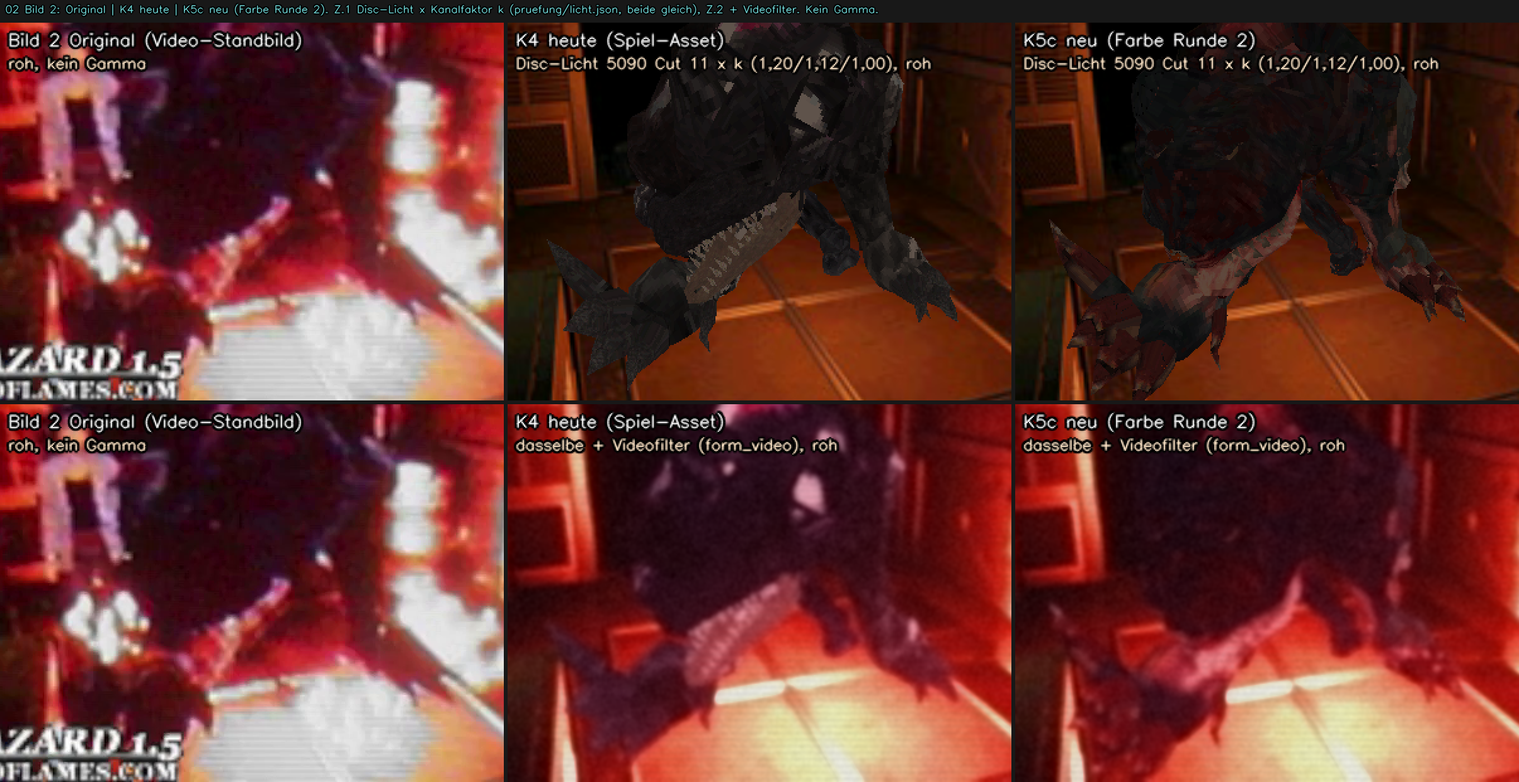
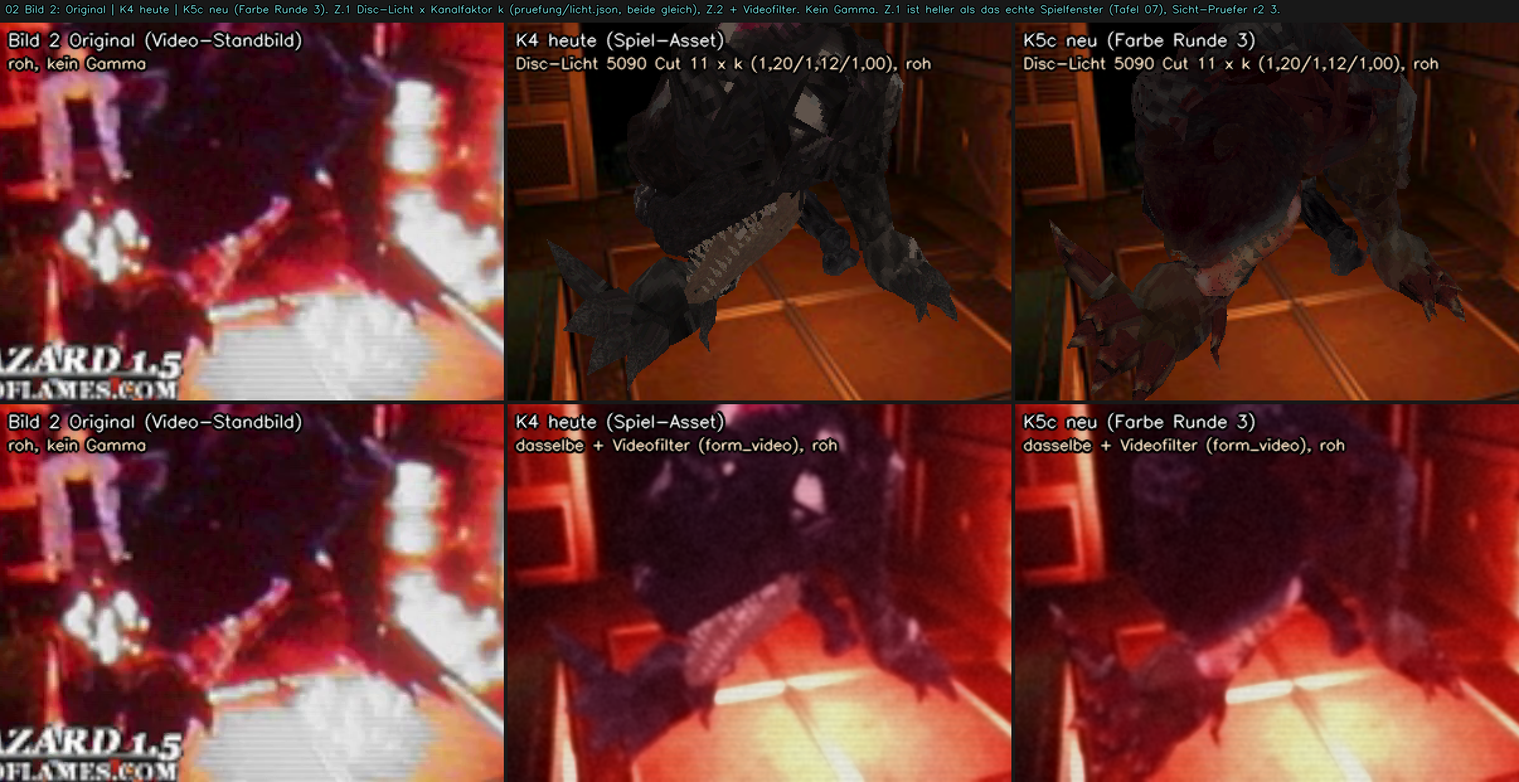
docs(form-farbe): Tafeln 01-07, Spiellauf mit K4-Vergleich und Dossier FARBE.md zur K5c-Farbe Runde 3
- Tafeln 01-06 (kf_tafeln.py, KF_NAME 'K5c neu (Farbe Runde 3)'), roh, kein
  Gamma auf keiner Kachel; 01/02 mit Hinweis "Zeile 1 heller als Spiel 07".
- 07: echtes Spiel (kf_spiel.sh --mit-heute -> form_spiel.sh, gdigrab, kein
  AUTOSHOT/SOFTWARE_RENDER), 5 Szenen 5080/5090, K4 heute und K5c neu,
  10/10 rc=0 (farbe/spiel_lauf.log), Einzelbilder farbe/spiel/.
- FARBE.md: Ursache in Zahlen, Vorgehen (3D-Malen, Hautseiten, Form,
  Fleischflaechen, Kiefer, Eichung), Herkunft je Atlasfeld, Riegel Soll/Ist
  28/33 (ROT K1, K2, K4, B2, B9 mit Begruendung), Tests 11/11, Offen O1-O9.
  Nach Messblatt 7.5 keine Abnahmevorlage fuer den Nutzer, solange ROT.

diff --git a/analysis/befunde_runde41/form/varianten/K5/FARBE.md b/analysis/befunde_runde41/form/varianten/K5/FARBE.md
@@ -1,192 +1,201 @@
-# K5c Farbe, Runde 2 von 3 (Bauer, 2026-11-06)
+# K5c Farbe, Runde 3 von 3 (Bauer, 2026-11-06)
 
 Auftrag: Orchestrator, Spur Form. Die Riesenform K5c ("eher c") neu texturieren nach `MESSBLATT_FARBE_V1.md` und jeden Befund der Pruefung
-Runde 1 (`FARBE_PRUEFUNG_r1_sicht.md`, `FARBE_PRUEFUNG_r1_zahlen.md`) beheben. Runde 1 steht in `FARBE_r1.md`, ihre Variante in `farbe/K5c_farbe_r1/`.
-Geometrie, Clips, UV, Dreiecke unveraendert: `farbe/K5c_farbe/FORM.EMD` = `farbe/K5C_FARBE.EMD` = `K5c/FORM.EMD` (cmp, sha256 a71f8d08...), 3828 Flaechen.
-Neu ist nur `FORM.TIM` (Texelindizes und 4 CLUT-Zeilen, gleiches Atlas-Layout). Kein RE-Wert: neues Modell (PORT-WAHL, NUTZER_ENTSCHEIDE E5/E19/E20).
-Seiten: (W) = aus Sicht des Wesens. Lab = CIE-Lab D65 (OpenCV float).
+Runde 2 beheben (`FARBE_PRUEFUNG_r2_sicht.md`, `FARBE_PRUEFUNG_r2_zahlen.md`). Runde 2 steht in `FARBE_r2.md`, ihre Variante in `farbe/K5c_farbe_r2/`,
+Runde 1 in `FARBE_r1.md` / `farbe/K5c_farbe_r1/`.
+Geometrie, Clips, UV, Dreiecke unveraendert: `farbe/K5c_farbe/FORM.EMD` = `farbe/K5C_FARBE.EMD` = `K5c/FORM.EMD` = Scratchpad `formfarbe/emd/K5C_FARBE.EMD`
+(sha256 a71f8d08...). Neu ist nur `FORM.TIM` (sha256 7c719e12..., Texelindizes und 4 CLUT-Zeilen, gleiches Atlas-Layout). Spiel-Asset
+`re15_port/shared_assets/RE2/BAHNSTEIG_FORM.*` und Pins unveraendert (`git diff 19a9b2b17..HEAD -- re15_port` leer).
+Kein RE-Wert: neues Modell (PORT-WAHL, NUTZER_ENTSCHEIDE E5/E19/E20). Seiten: (W) = aus Sicht des Wesens. Lab = CIE-Lab D65 (OpenCV float).
 
 ## 0. Ergebnis
 
-**Riegel 24/29 GRUEN, Exit 1.** ROT: K1, K2, N1, B1, B2 (Abschnitt 4). Die Gegenproben sind sauber: K5c heute 3/29 (nur die Halteriegel A10-A12),
-Runde 1 bei allen fuenf Befund-Riegeln B1-B5 ROT. Die Riegel messen also etwas.
+**Riegel 28/33 GRUEN, Exit 1.** ROT: K1, K2 (Bild-1-Farbkraft), K4 (Bild-1-Rotklasse, knapp), B2 (groesste Rotflaeche 3/4 vorn, knapp), B9 (Rot im
+Umrissband, neuer Riegel). Gegenproben sauber: K5c heute 6/33 (gruen nur Halteriegel A10-A12 und B6/B7/B9), Runde 1 alle B1-B5 ROT, Runde 2 alle
+B6-B9 ROT. **Nach Messblatt 7.5 gehen die Tafeln nicht als Abnahmevorlage an den Nutzer, solange Riegel ROT sind** (Entscheid Orchestrator, Abschnitt 7).
 
-| | K5c heute | Runde 1 | **Runde 2** |
+| | K5c heute | Runde 2 | **Runde 3** |
 |---|---|---|---|
-| Riegel (Messblatt 24 + Befund 5) | 3/29 | 24/24 + B 0/5 | **24/29** |
-| Neutralweiss A5 / Glanzrest B4 (p90 L\* ehem. Keime, <= 58) | 0,79 % / 100 | 0,00 % / 80,1 (gestaucht) | **0,00 % / 47,8 (entfernt)** |
-| Blau-Klasse im neutralen Render B3 (<= 0,10 %) | 2,4-5,0 % | 11,4-16,0 % | **0,00 %** |
-| Rot erosionsfest B1 (>= 32,1 %) / groesste Rotflaeche B2 (>= 3,2 %) | 21,5 / 1,19-0,61 | 20,0 / 3,26-1,70 | **28,0 / 3,65-2,45** |
-| Kopf-Gaumenklasse B5 (<= 2 %) | 15,1 % | 9,0 % | **1,0 %** |
-| Rot-Farbton A4 (15-50 Grad) | -10 | 19 (Median 16) | **26** |
-| Koerper C\* / Fleischrot (A1 / A3) | 4,9 / 0,5 % | 12,9 / 15,1 % | 11,8 / 22,4 % |
-| Bild-1-Kette C\* / ab-Streuung (K1 >= 7,9 / K2 >= 8,36) | 6,3 / 6,3 | 8,6 / 9,9 | **6,5 / 8,0 ROT** |
-| Neutraler Render C\* (N1 >= 7,5 / 9,4 / 7,9) | 4,6 / 5,0 / 4,0 | 10,7 / 9,8 / 10,7 | **10,2 / 8,8 / 6,9 ROT** |
+| Riegel | 6/33 | 24/29 (+ B6-B9: 0/4) | **28/33** |
+| Malweise | Rueckprojektion + Grau | 46 Felder aus G4-Hautausschnitten | **Farbe aus der Lage am Koerper (3D), keine Kacheln** |
+| Wiederholung B6 (<= 0,28 %) | 0,24 | 2,82 | **0,04** |
+| Rot erosionsfest B1 (>= 32,1 %) | 21,5 | 28,0 | **35,9** |
+| Groesste Rotflaeche B2 3/4 vorn / Seite (>= 3,2 %) | 1,19 / 0,61 | 3,65 / 2,45 | **2,97 / 5,96** |
+| Rot im Umrissband B9 (<= 11,3 %) | 10,2 | 23,3 | **17,8** |
+| Rot-Farbton-Streuung B7 (>= 5,8 Grad) | 19,9 | 4,5 | **11,3** |
+| Zahnflecken Bild 2 B8 (13,6-33,9 %) | 41,1 | 0,2 | **14,1** |
+| Neutraler Render C* N1 (>= 7,4 / 9,4 / 7,8) | 4,6 / 5,0 / 4,0 | 10,2 / 8,8 / 6,9 | **10,3 / 9,7 / 10,1** |
+| Bild-1-Kette C* / ab-Streuung (K1 >= 7,9 / K2 >= 8,4) | 6,3 / 6,3 | 6,5 / 8,0 | **6,1 / 6,2 ROT** |
+| Kiefer Zahn/Rot/Dunkel A8 | 77/0/0 | 6/96/39 | **6,9 / 25,3 / 39,6** |
 
-Ergebnis-Dateien: `farbe/K5C_FARBE.EMD` + `farbe/K5C_FARBE.TIM`, Variantenordner `farbe/K5c_farbe/` (FORM.EMD, FORM.TIM, form.json, bau.json mit
-Herkunft je Atlasfeld, masken.npz). Kopie im Scratchpad `formfarbe/emd/K5C_FARBE.EMD/.TIM`. Spiel-Asset `re15_port/shared_assets/RE2/BAHNSTEIG_FORM.*`
-und Pins unveraendert.
+## 1. Ursache der Ablehnung in Zahlen
 
-## 1. Ursache der Ablehnung in Zahlen (Messblatt, Gegenprobe K5c heute)
+Nutzer 2026-11-06 zu `rundum_bild1_K5c.png`: "passt von den Farben und von der Struktur ueberhaupt nicht ... nicht zum Rest des Spiels ... wie ein Pokemon".
+- K5c heute (Messblatt 0/5): Koerper C* 4,9 (Familie 9,3-19,8); Fleischrot 0,5 % Magenta -10 Grad (Familie 11,5-38 % bei 25-48 Grad); sigma_ab je Teil
+  4,0 (7,4-10,7); Kiefer 77 % Creme, 0 % Rot, 0 % dunkel, HF 0,461; Augen (207,95,161) C* 54; 0,79 % silberweisse Koerpertexel (Familie <= 0,19 %);
+  Tafeln mit Gamma 0,5/0,6 nur auf K5c.
+- Runde 1/2 behoben das, erzeugten aber (Pruefung r2): Rot als Netz und Saum (B1 28,0 %, Seite 2,45 %, Rot im Umrissband 23,3 % gegen EM30 11,3 %),
+  gekachelte G4-Foto-Fragmente (Wiederholung 2,82 % gegen EM30 0,28 %), Rot ein Ton (4,5 Grad gegen G5 5,8 / EM30 13,2), Zaehne in Bild 2 unsichtbar
+  (Hell-Klasse 0,2 % gegen 22,6 %), Konstanten ohne Quelle, Eichung nicht konvergiert.
 
-"Pokemon" = grau + Magenta-Augen + Creme-Maul + Weissflecken + Tafel-Aufhellung: Koerper C\* 4,9 gegen Familie 9,3-19,8; Fleischrot 0,5 % bei -10 Grad
-(Familie 11,5-38 % bei 25-48 Grad); sigma_ab je Teil 4,0 gegen 7,4-10,7; Kiefer 77 % Creme, HF 0,461; Augen (207,95,161) C\* 54; 0,79 % silberweisse
-Koerpertexel; Gamma 0,5/0,6 nur auf K5c. `riegel_farbe.py --gegenprobe K5c` ergibt dieselben Zahlen (Abschnitt 4, rechte Spalte).
+## 2. Vorgehen (`generator/kf_mal3.py`; Runde 1/2 `kf_mal.py`/`kf_mal2.py` bleiben fuer den Nachbau)
 
-Runde 1 hatte das behoben, aber zwei neue "Pokemon"-Merkmale erzeugt (Sicht-Pruefer r1): **P1** alles Rot als helles Adernetz auf dunklem Grund
-(Erosionsrest 14-24 %, groesste Rotflaeche 286-483 px, Adern heller als die Haut), **P2** stahlblaugraue Beine (Blau-Klasse 10,6-14,7 %). Dazu
-(Zahlen-Pruefer r1) Glanzflecken nur gestaucht (ehemalige Weisstexel Lab (72,9/7,9/1,5)), beiger Gaumenstreifen x 500-511, Konstanten ohne Quelle.
+**Grundsatz:** nicht mehr je Atlasfeld malen, sondern auf der Koerperoberflaeche. Jeder genutzte Texel bekommt Lage und Normale in der Ruhepose
+(Clip 2, `kf_geo.py`), alle Texel bilden einen Graph (8 naechste 3D-Nachbarn + 4er-Nachbarn im Atlas). Glaetten, Ergaenzen und Formen laufen auf
+diesem Graph, also ueber Feld- und Gliedgrenzen hinweg (E8 "aus einem Guss", E9, E12 "keine UV-Naehte"). Nichts wird gekachelt (B6 0,04 %).
 
-## 2. Vorgehen (`generator/kf_mal2.py`, Runde 1 `kf_mal.py` bleibt fuer den Nachbau unveraendert)
+1. **Koernung** = K5c-eigene Struktur (Textur H2, E16 "sehr viel besser"; HF 0,105 liegt in der Familie, Messblatt 1): L* minus Grobbild
+   (sigma 2,5 Texel). Glanzkeime (L* > 85, C* < 10) und Gaumenstreifen (Zahnklasse im Kopffeld) samt Hof (L* > 58) vorher harmonisch entfernt
+   (3236 Texel). Keine G4-Hautausschnitte mehr.
+2. **Farbkarte aus den Screenshots** (E11): Original Bild 1/2 als T (`p_zonen.rueck`, Bild 2 ohne Einstreuung a* 12,8 / b* 3,4) auf die sichtbaren
+   Texel (Bild 1 9357, Bild 2 13048 Texel); verdeckte aus dem Spiegelpunkt z -> -z (+14748 Texel), Rest harmonisch, Glaettung 2,5 Texel.
+   Haut-L* hoechstens 58 (hellstes Original-Band), Blau-Klasse (b* < -6 und C* > 8) auf C* 8 begrenzt (Farbton bleibt).
+3. **Hautfarbe in wenigen Toenen** (E8 "wenige Farben je Teil", E10 "Violett, Rotbraun, Blaugrau"): k-Mittel k = 2 der Nicht-Rot-Hautpixel beider
+   Bilder -> warme Seite (5,8/8,2) und kuehle Seite (2,0/-6,6); je Seite Rampe Helligkeit -> Farbe (Mittel je L*-Stufe, Werte in `bau.json` 'hautseiten').
+   Je Texel Mehrheit warm/kuehl (Schwelle 0,5, Kante 2,5 Texel): 45 % der Haut warm. Statt einer Mittelfarbe, deren Buntheit sich aufhebt.
+4. **Form = gemalte Anatomie** (Sicht r2 P2 "kein Feld zeigt Anatomie"; E8 "Lichtauffassung"): Hohlraum-Mass je Texel (mittlerer Sinus der
+   Nachbarhoehe ueber der Tangentialebene, k-NN 64 vorzeichenbehaftet + 256 nur Falten). Falten/Beugen dunkel, Woelbungen hell; Staerke so, dass die
+   Koerper-L*-Streuung die von RE2-G4 erreicht (14,9, Messblatt 1): K_FORM 10,27. Dunkle Falten (L* < 20) der warmen Seite in der G4-Dunkelrotstufe
+   (18,9/25,6/12,2) = "dunkelrote Tiefen" (E10), 9,6 % der Haut.
+5. **Fleisch als grosse Flaechen** (Sicht r2 P1/4.1): Screenshot-Mehrheit der Rotklasse (E14, 3744 Texel: Z1 Ruecken, Klauen, Schwanzspitze) und die
+   **nie gesehene Rumpf-Unterseite** (Meshes 0/7/10/21, Normale nach unten, 10129 Texel) - nicht mehr an den Gliedunterseiten (Saeume). Zusammen
+   20,7 % der Koerpertexel. Fleischfarbe = Rampe ueber die Familien-Rotstufen nach Helligkeit (G4 18,9/25,6/12,2 -> G4 32,8/43,7/25,8 ->
+   EM30 36,5/37,4/20,5 -> Familienwunde 51,5/26,5/18,0 -> G4 64,3/24,7/16,3), wo sichtbar plus die Screenshot-Abweichung (Z1 rosa).
+   Helligkeit: Screenshot-Fleischmittel 33,3 bzw. am Bauch die satten Familienstufen (34,65) + Form + Koernung auf +-1 sigma begrenzt (keine Loecher).
+   Ergebnis: Rot-Farbton-Streuung 11,3 Grad (keine harte Drehung mehr), Fleisch im Render als zusammenhaengende Bauch-/Flankenflaeche.
+6. **Kiefer**: sichtbares Band (1161 Texel) = Screenshot Bild 2 samt Zahnflecken (B8 14,1 %); Maulinneres RE2-G4-Maul (10,44,60,40), dessen
+   Zahnfleisch nach eigenem Rot (a*/21,5 = G4-Maul-p90) auf die Fleischrampe gezogen; Zaehne und dunkles Inneres bleiben. A8 6,9/25,3/39,6 %
+   (Familie: Zahn 2-19, Rot 21-36, Dunkel 24-64). Krallen RE2-G4 (231,200,20,50), Zahnfeld Bild-2-Zahnflecken, Augen E24 dunkel (wie Runde 2).
+7. **Eichung gegen die Kette** (Zonenversatz L*/a*/b* je Bildzone, nur auf Haut; Hautbuntheit g): voller Schritt (kein Daempfungsfaktor),
+   g <= G_AB 1,48 (kf_mal.py:50), Saettigungsregel (bewegt eine Aenderung > 1 die Kette um < 10 %, bleibt der Anteil gesperrt), Abbruch bei
+   Schritt < 1 dE. Verlauf `generator/kf_eich3.json` (15 Runden ueber 4 Codestaende e2-e5; die letzten zwei mit dem Endcode: Schritt 1,10 ->
+   **0,71**, Fixpunkt). Endversaetze (L*, a*, b*): Schwanz (-16,5/5,0/-12,7), Ruecken (-4,0/8,0/-19,2), Hinterbein l (W) (-8,9/18,6/-31,6),
+   Hinterbein r (W) (-17,0/14,9/-51,4, b* gesperrt: Blau-Grenze), Vorderglied r (W) (-6,9/-5,6/-5,9), Oberkiefer (-0,2/7,0/-7,5),
+   Kopf/Rumpf (1,7/2,6/-9,2), Unterkiefer (43,3/26,0/19,2), Klauen 0. Zonen-dE der Riegel-Zonen: K3 max 4,9, K6-K8 <= 1,6.
+   Nachbau `python kf_mal3.py bauen <aus>` aus kf_eich3.json ist **byte-gleich** (cmp FORM.TIM).
 
-Je Texel (Lab), Reihenfolge wie im Code:
+### Konstanten (Quelle je Zeile im Code, Liste `bau.json` 'konstanten')
 
-1. **Glanz und Gaumen entfernen** (Zahlen-Pruefer 6.1/6.6, Sicht-Pruefer P4): Keim = Neutralweiss nach A5 (L\* > 85, C\* < 10), Hof = angrenzende
-   Texel mit L\* > 58 (hellstes Original-Band, Messblatt 2 "T L\* 51-58"); Gaumen = Zahnklasse im Kopffeld (L\* > 60, C\* < 35, Messblatt 3) mit
-   demselben Hof. 881 + 2324 Texel werden im Ausgangsbild K5c **harmonisch aus der Umgebung gefuellt** (Laplace je Atlasfeld, kein Radius).
-   Keine Stauchung oberhalb L\* 70 mehr.
-2. **Grundton** = K5c-Grobbild (Gauss 2,5 Texel, normiert im Feld; Quelle kf_mal.py:40-42) mit a\*b\* x 1,48 (Messblatt 2).
-3. **Haut-Form** aus RE2-G4: Hautquellen mit Aderanteil <= 10 % (`G4_HAUT2`, Abschnitt 3), Helligkeits- und Farbform = Quelle minus Grobbild, aber
-   aus dem G4-Bild **ohne seine Adern** (Adern harmonisch gefuellt), sonst trug die Malform den roten Aderhof als Sprenkel (Lauf r2-v0). Die G4-Adern
-   selbst: L\* = 0,85 x Haut (EM30-Adern 23 gegen Haut 27, Sicht-Pruefer P1), C\* <= 1,50 x L\* (G4-Dunkelrot (18,9/25,6/12,2), Messblatt 1),
-   am Ende nach allen Versaetzen erneut begrenzt. 4449 Texel = 5,9 % der Haut.
-4. **Fleischflaechen** (P1): Anteil roter Original-Bildpunkte je Texel (Pruefer-Rotklasse, Bild 2 nach Abzug der Einstreuung a\* 12,8 = Kette 15,5
-   minus Albedo 2,7, Messblatt 2), im Feld harmonisch fortgesetzt (E11), Gauss 2,5 (E12/E13), **Mehrheitsschwelle 0,5** (E14). Material: G4-Fleisch
-   (181,224,20,30) und (179,229,24,24), in L\* und C\* auf das Mittel der Familienwunden skaliert (Sicht-Pruefer P5: EM30 (50/26/13), G4 (53/27/23)
-   -> (51,5/26,5/18,0)), Farbton der Quelle. **Verdeckte Unterseite**: die 23,9 % der Hauttexel mit der staerksten Normalen nach unten (Ruhepose
-   Clip 2, `kf_geo.py`; 23,9 % = G4-Fleischrot, Messblatt 1), nur nie gesehene Texel (E14), Kopffeld ausgenommen, Uebergang ueber 1,2 x 23,9 %
-   (Umring 19-20 %, P5), in der dunklen G4-Rotstufe (18,9/25,6/12,2). Fleisch gesamt 17 210 Texel (23,0 % der Haut).
-5. **Kiefer, Krallen** wie Runde 1 (G4-Maul (10,44,60,40) 90 Grad gedreht, G4-Krallen (231,200,20,50)); Kopienzahl = Umfang / Quellbreite
-   (5 bzw. 8), Zeilenversatz gleichverteilt (j x Hoehe / Kopien).
-6. **Zonenversatz** (Eichung gegen die Kette, Messblatt 2): sichtbare Texel nach Bildpunkten je Zone, verdeckte harmonisch im Feld.
-   **Zone = Bauteil**: die Bildzone Unterkiefer wirkt nur auf das Kieferfeld, alle anderen nie darauf. Runde 1 traf ueber die Unterkiefer-Zone
-   (L\* +38,7) hand_r (217 px), Kopf (502 px) und Unterschenkel (107 px): Ursache der hellen Pfote (Sicht-Pruefer P3) und eines Teils der Glanzreste.
-7. **Farbwechsel aus dem Original** (E10/E11, K2): je sichtbarem Hauttexel a\*b\* minus Zonenmittel der Original-Bildpunkte, ohne die roten Bildpunkte
-   (die tragen die Fleischflaeche), harmonisch fortgesetzt, Gauss 0,7 (E13).
-8. Zaehne (Bild-2-Zahnflecken (79,6/1,4/9,5), Verlauf auf 45/80 = 0,56 zum Grund), Augen (E24 (13,4/15,8/6,9)), Augenumfeld r 6 px (218 Texel),
-   E9-Schwanzausgleich (Gerade durch die Glied-Mittel 1-5).
-9. **Farbfenster**: Farbton -55..25 Grad bei C\* > 14,5 auf **25 Grad** gedreht (EM30-Rot, Messblatt 1; Runde 1: 10); ausserhalb -55..80 Grad
-   C\* <= 5,5 (Runde 1, Quellen dort); **b\* >= -6** (Blau-Klasse P2; Runde 1 liess -125..-55 Grad bis C\* 14,5 offen). Gemessen am Original Bild 1:
-   29,9 % der Figurpixel liegen in der Blau-Klasse; mit b\* auf -6 gekappt bleibt C\* 7,99, mit Chroma-Skalierung 7,40 (deshalb Kappung).
-10. **CLUT**: k-Mittel je Zeile (255 Farben, Saat 7), 5-Bit-Stufen **gerundet** statt abgeschnitten (Zahlen-Pruefer r1 A8 +2,5), danach Blau-Regel an der
-    Spielfarbe (Dekodierung x 255 // 31): 20 Stufen gesenkt, sonst kippen dunkle Farben durch eine Blaustufe in die Blau-Klasse.
+Belegt: SIG_GROB 2,5 (kf_mal.py:40-42), GLANZ/HOF/GAUMEN (A5, Messblatt 2/3), EINSTREU_A2 12,8 / B2 3,4 (Messblatt 2, p_zonen.json), Blau-Klasse
+-6 / C* 8 (Sicht r1 P2, B3), Fenster -125..80 Grad (H_BLAU Runde 1, Bild-1-Hinterbein -85 Grad), L_MAX_HAUT 58 (Messblatt 2), L_MAX_FLEISCH 70,6
+(EM30-Haut p95), RAMPE_FLEISCH (Messblatt-1-Paletten), G4_DUNKELROT, FLEISCH_BAUCH_L 34,65 (G4/EM30), L_STREU_ZIEL 14,9 (G4), Zahnfleisch-Gewicht
+21,5 (G4-Maul a* p90, gemessen), G_AB 1,48, ZAHN/AUGE wie Runde 2.
+PORT-WAHL mit Nutzerentscheid: Mehrheitsschwelle 0,5 (E14) fuer Fleisch und Hautseite; k = 2 Hautseiten (E8 "wenige Farben je Teil", E10).
+Verfahrensparameter (Weg, nicht Ziel; im Code benannt): K_GRAPH 8, K_NAH/K_FERN 64/256, SPIEGEL_ABSTAND 2 Texelabstaende, Falten-Uebergang
+1 Standardabweichung, L*-Stufen der Rampen, Saat 7, Abbruch 1 dE, Saettigung 10 %.
+Entfallen gegenueber Runde 2: alle Kachelversaetze (`+2`, `+1` bei Haut), `kf_mal.ausschnitt` fuer die Haut, SIG_AB_FEIN, DAEMPF 0,8,
+FLEISCH_ANTEIL/UMRING. Weiter benutzt (nur Kiefer/Krallen): `kf_mal.ausschnitt` (Lueckenfuellung sigma 2 / 4 Durchlaeufe) und die Kopienzahl
+`+1` - Befund Zahlen-Pruefer r2 5.1/5.3 dort **nicht behoben** (Offen O6).
 
-**Eichung** (`kf_mal2.py eichen`, Verlauf `generator/kf_eich2.json`, 67 Runden ueber alle Laeufe): nur noch Zonenversatz L\*/a\*/b\* (10 Zonen) und
-Augenhelligkeit (Ziel Original L\* max 22,1). Klauen: L\* und b\* nicht geeicht (Feuerschein, Messblatt K9), a\* nur nach oben (K9 ist Untergrenze).
-b\*-Versatz begrenzt, bis der Texel mit dem groessten b\* der Zone an b\* -6 liegt (darueber wirkungslos; Lauf r2-e18 ohne Grenze: d_b -147).
-Keine Aderstaerke g, keine Fleischschwelle, keine Farbkraft in der Eichung. Endwerte (L\*, a\*, b\*): Schwanz (-2,6/-2,2/-11,5), Ruecken/Flanke
-(-6,6/-4,1/-16,8), Hinterbein l (W) (0,4/2,3/-17,1), Hinterbein r (W) (-3,0/-1,0/-24,3), Vorderglied r (W) (-2,2/-6,2/-11,2), Oberkiefer (-5,0/10,8/-15,2),
-Kopf/Rumpf (-1,8/1,1/-2,1), Unterkiefer (82,4/31,2/19,0), Klauen 0. Restfehler der letzten Runde dE max 8,0 (Klaue r (W), b\* Feuerschein, kein Riegel).
-Verfahrensparameter: Schrittweite 0,8, Saat 7. `kf_mal2.py bauen` aus `kf_eich2.json` ist byte-gleich wiederholbar (cmp).
-
-**Konstanten ohne Quelle aus Runde 1 (Zahlen-Pruefer 4), Verbleib:** `np.clip(g, 0, 2.5)` und g selbst entfallen; `clip(fleisch_k, 0.2, 1.5)`,
-`max(4.0, auge)` und `deck > 0.2`, `deck/0.5`, `cov/0.5`, `gd/0.05` entfallen (harmonische Fortsetzung, Mehrheitsschwelle); Stauchung L\* > 70 (0,25)
-entfaellt (Glanz entfernt); Kachelversaetze `7*i`, `11*j`, `9*j`, `auf_hoehe(5)` ersetzt durch gleichverteilte Versaetze aus der Quellhoehe; Ueberblendung
-= 2 x SIG_GROB (5); D_MAX ersetzt durch die Fenstergrenze B_MIN; Augen-Reserve 26 ersetzt durch das Original 22,1; K_FEIN, G_L, SIG_ERG, SIG_NAEHE,
-K_VERDECKT und naehe^3 entfallen. Verbleibende PORT-WAHL mit Nutzerentscheid: SIG_AB_FEIN 0,7 (E13), Mehrheitsschwelle 0,5 (E14).
-
-### Laufprotokoll (Scratchpad `formfarbe/r2/v0 ... e21`)
+### Laufprotokoll (Scratchpad `formfarbe/r3/`)
 
 | Lauf | Aenderung | Befund |
 |---|---|---|
-| v0 | erster Bau: Glanz entfernt, Adern dunkel, Fleisch nur Screenshot | Blau 0,8-1,6 %, Rot nur Sprenkel (Erosion 6-20 %), Gaumen-Rest x 384-392 |
-| v1-v2 | Gaumen-Hof, G4-Malform ohne Adern, Hautquellen <= 10 % Adern, Unterseite 23,9 % | Blau 0 %, ruhiger; Rot zerfaellt im Render weiter |
-| e1-e2 | Eichung; Farbton der Haut >= -14 Grad (Projektion / C\* <= 6) | K1 6,2, K2 6,8, N1 6,9-9,1 ROT -> verworfen |
-| e3 | Zone = Bauteil (Unterkiefer), b\* >= -6 | Pfote nicht mehr hell; 23/29 |
-| e4-e7 | Farbwechsel aus dem Original; Farbkraft-Eichung auf K1 bzw. K4 | K1 8,7 nur mit K4 9,9-10,2 % (Fleisch verdraengt); Ziel K4 entsaettigt auf 0,74 -> verworfen |
-| e8-e12 | Klauen L\*/b\* fest, Kieferkante weich, G4-Rose, weiche Unterseite | 25/29; Unterseite als rote Saeume an Umrisskanten |
-| e13 | ohne Unterseite | A1 8,8, A3 8,4 knapp, B1 28 -> verworfen (A1 ROT) |
-| e14-e17 | Unterseite dunkelrot (G4-Stufe), Kopf ausgenommen, Versaetze aus Massen | 25/29 (K1, N1, B1, B2) |
-| e18 | Rose raus, Fleisch auf Familienwunde skaliert (Z1 in Tafel 01 knallrot statt rosa) | 24/29 (K2 8,1) |
-| e19-e21 | b\*-Eichung begrenzt (Zonenmittel, dann Zonenmaximum) | **24/29, Endstand** |
+| v0 | 3D-Malen, Screenshot-Karte direkt | 18/29; Fleisch zu dunkel (B1 19,8), Schwanz-L* steigt zur Spitze (A11 4,4) |
+| e1 | globaler Buntheitsfaktor ohne Grenze | g 3,9 -> Magenta/Orange/Tuerkis (verworfen) |
+| v1-v2 | zwei Hautseiten, Rampen; Blau auf C* 8 statt b* -6 | Bild 1 allein: warme Seite grau -> beide Bilder |
+| e2 | Eichung, g <= 1,48 | K1 6,6-6,9 (Grenze), Bauch-Sattel zu gross (80 % des verdeckten Rumpfs) |
+| v3-v5 | Bauch ny > 0, dunkelrote Falten, Versatz nur auf Haut | A4 12 Grad -> Falten nur warme Seite; Kiefer-Rot 12 % -> Zahnfleisch |
+| v6-v9 | Bauch-L* (51,5 zu blass, 34,65 satt), Fleisch-Koernung +-1 sigma | B1 22 -> 25, B6 1,62 -> 0,13 |
+| v10 | Bauch = nie gesehene statt nicht gespiegelte Texel | B1 35,5, B2 Seite 6,3 |
+| e4-e5 | Endeichung, Saettigung gesperrt | Fixpunkt, 28/33 |
+| v11 | Screenshot-Farbwechsel zusaetzlich | K1/K2 unveraendert, B8 ROT -> verworfen |
 
-## 3. Herkunft der Atlasfelder (`farbe/K5c_farbe/bau.json` "herkunft")
+## 3. Herkunft der Atlasfelder (`farbe/K5c_farbe/bau.json` 'herkunft')
 
 | Feld (Atlas) | Herkunft |
 |---|---|
-| Koerper Seiten 0-2 (46 Felder aus `J_dicker/bau.json`) und Kopf (384,0,128,104) | K5c-Grobbild ohne Glanz/Gaumen (Gauss 2,5) mit a\*b\* x 1,48 + RE2-G4-Hautform aus (130,96,20,62), (190,96,20,60), (314,12,32,30), (269,4,24,32), (29,152,24,32) (G4-Atlas wie `p_lade.re2(0x34)`; Aderanteil 6 / 9 / 7 / 0 / 9,5 %), Startquelle = Feldnummer; G4-Adern dunkel; Fleisch wo Bild 1/2 mehrheitlich Rot zeigen aus G4 (181,224,20,30) / (179,229,24,24) skaliert auf (51,5/26,5/18,0); verdeckte Unterseite G4-Fleisch in der Stufe (18,9/25,6/12,2); Zonenversatz; Farbwechsel aus dem Original |
-| Kiefer (384,106,128,72) | RE2-G4-Maul (10,44,60,40), 90 Grad gedreht, 5 Kopien um den Umfang, Zeilenversatz j x 40 / 5, Ueberblendung 5 Texel; L\*-Versatz nur am sichtbaren Band, Kante Gauss 2,5 |
-| Zaehne (384,180,24,14) | gemalt: Bild-2-Zahnflecken Lab (79,6/1,4/9,5), L\* zum Grund x 0,56 |
-| Krallen (410,180,100,40) | RE2-G4-Krallen (231,200,20,50), 8 Kopien, Zeilenversatz j x 50 / 8 |
+| Koerper, Seiten 0-2 (x < 384, 46 Felder aus `J_dicker/bau.json`) und Kopf (384,0,128,104) | K5c-Koernung (H2) + Screenshot-Farbkarte Bild 1/2 (sichtbar / Spiegelpunkt / harmonisch) -> Hautseite warm/kuehl mit Rampe aus den Original-Hautpixeln; Form aus dem Hohlraum-Mass; dunkle Falten G4-Dunkelrot; Fleisch (Screenshot-Mehrheit + Rumpf-Unterseite der Meshes 0/7/10/21) in der Familien-Rotrampe; Zonenversatz aus der Eichung |
+| Kiefer (384,106,128,72), Mesh 23 | Band: Screenshot Bild 2 (Zahnflecken mit) + Zonenversatz Unterkiefer; Maulinneres RE2-G4-Maul (10,44,60,40), 90 Grad gedreht, 5 Kopien, Zahnfleisch auf Fleischrampe |
+| Zaehne (384,180,24,14) | gemalt: Bild-2-Zahnflecken (79,6/1,4/9,5), L* zum Grund x 0,56 |
+| Krallen (410,180,100,40) | RE2-G4-Krallen (231,200,20,50), 8 Kopien |
 | Augen (384,196,24,10) + 218 Texel Augenumfeld | gemalt: E24 (13,4/15,8/6,9) |
 
-Die G4-Rechtecke sind voll gedeckt (Suche nach gedeckten Rechtecken mit kleinstem bzw. groesstem Rotanteil im G4-Atlas, Schulterauge x 270-321,
-y 160-245 ausgenommen); Maul und Krallen zu 84 / 82 % gedeckt, Luecken aus dem Umfeld (kf_mal.ausschnitt).
+Mesh-Zuordnung (Ruhepose, x vorn, y unten): 0 Huefte, 1-6 Schwanz, 7 Wirbel, 10 Brust, 21 Hals, 22 Kopf, 23 Unterkiefer, 8/9/24-27 Hinterbeine,
+11-20/28-31 Arme/Haende/Klauen.
 
-## 4. Riegel Soll / Ist (`python generator/riegel_farbe.py farbe/K5c_farbe --gegenprobe K5c --gegenprobe-r1 farbe/K5c_farbe_r1`, `farbe/riegel_K5c_farbe.json/.txt`)
+## 4. Riegel Soll / Ist
 
-| # | Soll | Runde 2 | K5c heute | Runde 1 |
+`python generator/riegel_farbe.py farbe/K5c_farbe --gegenprobe K5c --gegenprobe-r1 farbe/K5c_farbe_r1 --gegenprobe-r2 farbe/K5c_farbe_r2 --json farbe/riegel_K5c_farbe.json`
+(Ausgabe `farbe/riegel_K5c_farbe.txt`, EXIT 1). Neu in Runde 3: B6-B9 zu den Befunden r2; Grenzen = Familienwerte mit demselben Code
+(`riegel_farbe.py --familie`: EM30 / G5 / G4 = B6 0,28 / 0,19 / 0,08 %, B7 13,2 / 5,8 / 9,4 Grad, B9 11,3 / 7,3 / 7,7 %).
+
+| # | Soll | Runde 3 | K5c heute | Runde 2 |
 |---|---|---|---|---|
-| A1 Koerper C\* | 9,5-21 | 11,8 GRUEN | 4,9 | 12,9 |
-| A2 sigma_ab je Teil | >= 7,0 | 13,1 GRUEN | 4,0 | 11,9 |
-| A3 Fleischrot | 8-40 % | 22,4 GRUEN | 0,5 | 15,1 |
-| A4 Rot-Farbton | 15-50 Grad | 26 GRUEN | -10 | 19 |
+| A1 Koerper C* | 9,5-21 | 13,9 GRUEN | 4,9 | 11,8 |
+| A2 sigma_ab je Teil | >= 7,0 | 7,6 GRUEN | 4,0 | 13,1 |
+| A3 Fleischrot | 8-40 % | 20,3 GRUEN | 0,5 | 22,4 |
+| A4 Rot-Farbton | 15-50 Grad | 22 GRUEN | -10 | 26 |
 | A5 Neutralweiss | <= 0,20 % | 0,00 GRUEN | 0,79 | 0,00 |
-| A6 HF_fft Koerper/Kopf/Kiefer/Kralle | 0,04-0,26 | 0,091/0,153/0,047/0,064 GRUEN | Kiefer 0,461 | 0,164/0,109/0,068/0,063 |
-| A7 HF_rest | <= 0,19 | max 0,065 GRUEN | 0,436 | 0,092 |
-| A8 Kiefer Zahn/Rot/Dunkel | 2-20 / >= 20 / >= 20 % | 6,1 / 95,7 / 39,2 GRUEN | 77,1/0/0 | 2,7/33,8/44,5 |
-| A9 Auge L\*/C\* | <= 30 / <= 30 | 13,1 / 18,0 GRUEN | 56,1/53,7 | 13,1/18,0 |
+| A6 HF_fft Koerper/Kopf/Kiefer/Kralle | 0,04-0,26 | 0,090/0,167/0,073/0,065 GRUEN | Kiefer 0,461 | 0,091/0,153/0,047/0,064 |
+| A7 HF_rest | <= 0,19 | max 0,082 GRUEN | 0,436 | 0,065 |
+| A8 Kiefer Zahn/Rot/Dunkel | 2-20 / >= 20 / >= 20 % | 6,9/25,3/39,6 GRUEN | 77,1/0/0 | 6,1/95,7/39,2 |
+| A9 Auge L*/C* | <= 30 | 13,1/18,0 GRUEN | 56,1/53,7 | 13,1/18,0 |
 | A10 Texeldichte | 0,5-2,7 | 0,64-2,33 GRUEN | gleich | gleich |
-| A11 Schwanzsprung | <= 4,0 | 1,4 GRUEN | 3,4 | 0,5 |
-| A12 Farbkorn | <= 5,7 | 4,54 GRUEN | 2,63 | 4,40 |
-| K1 Bild 1 C\* | 7,9-11,1 | **6,5 ROT** | 6,3 | 8,6 |
-| K2 Bild 1 ab-Streuung | >= 8,36 | **8,0 ROT** | 6,3 | 9,9 |
-| K3 Bild 1 dE je Zone | <= 6 | max 5,4 (Hinterbein r (W)) GRUEN | 8,3 | 1,3 |
-| K4 Bild 1 Rotklasse | 3,1-7,8 % | 6,2 GRUEN | 2,5 | 6,9 |
-| K5 Bild 1 Hell Ruecken / geclippt | <= 14,9 / <= 0,8 % | 4,7 / 0,4 GRUEN | 21,9/1,0 | 6,8/0,1 |
-| K6 Bild 2 Figur dE / C\* | <= 6 / >= 21,8 | 1,5 / 23,8 GRUEN | 9,9/16,7 | 2,7/22,7 |
-| K7 Bild 2 Unterkiefer dE / a\* | <= 6 / >= 21,2 | 0,0 / 24,9 GRUEN | 12,4/13,7 | 0,2/24,8 |
-| K8 Bild 2 Oberkiefer dE | <= 6 | 1,4 GRUEN | 12,0 | 0,6 |
-| K9 Bild 2 Klauen a\* r/l | >= 18,1 / 16,7 | 26,1 / 28,3 GRUEN | 13,8/22,8 | 24,1/22,5 |
-| K10 Bild 2 Augen L\* max | <= 30 | 14,3 / 15,9 GRUEN | 51,5/36,2 | 13,5/15,9 |
-| N1 neutral C\* (EM30 10,0/12,5/10,5) | >= 0,75 x EM30 | 10,2 / **8,8 / 6,9 ROT** | 4,6/5,0/4,0 | 10,7/9,8/10,7 |
-| N2 neutral L\* > 85 | <= 0,10 % | 0 / 0 / 0 GRUEN | 0,83/1,30/0,11 | 0/0/0 |
-| B1 Rot erosionsfest (3 Winkel zus.) | >= 32,1 % (EM30; G4 41,4, G5 52,4) | **28,0 ROT** | 21,5 | 20,0 |
-| B2 groesste Rotflaeche / Figur (3/4 vorn, Seite) | >= 3,2 % (G4 Seite; EM30 3,59) | 3,65 / **2,45 ROT** | 1,19/0,61 | 3,26/1,70 |
-| B3 Blau-Klasse je Winkel | <= 0,10 % (G4/G5 0,0) | 0,00 GRUEN | 3,9/5,0/2,4 | 11,4/15,5/16,0 |
-| B4 Glanzrest p90 L\* ehem. Keime | <= 58 (hellstes Band) | 47,8 GRUEN | 100 | 80,1 |
-| B5 Kopffeld Gaumen-/Zahnklasse | <= 2,0 % | 1,02 GRUEN | 15,1 | 9,0 |
+| A11 Schwanzsprung | <= 4,0 | 0,1 GRUEN | 3,4 | 1,4 |
+| A12 Farbkorn | <= 5,7 | 2,48 GRUEN | 2,63 | 4,54 |
+| **K1 Bild 1 C*** | 7,9-11,1 | **6,1 ROT** | 6,3 | 6,5 |
+| **K2 Bild 1 ab-Streuung** | >= 8,36 | **6,2 ROT** | 6,3 | 8,0 |
+| K3 Bild 1 dE je Zone | <= 6 | max 4,9 (Hinterbein r (W)) GRUEN | 8,3 | 5,4 |
+| **K4 Bild 1 Rotklasse** | 3,1-7,8 % | **2,8 ROT** | 2,5 | 6,2 |
+| K5 Bild 1 Hell Ruecken / geclippt | <= 14,9 / <= 0,8 % | 11,7 / 0,3 GRUEN | 21,9/1,0 | 4,7/0,4 |
+| K6 Bild 2 Figur dE / C* | <= 6 / >= 21,8 | 1,0 / 24,7 GRUEN | 9,9/16,7 | 1,5/23,8 |
+| K7 Bild 2 Unterkiefer dE / a* | <= 6 / >= 21,2 | 1,6 / 23,3 GRUEN | 12,4/13,7 | 0,0/24,9 |
+| K8 Bild 2 Oberkiefer dE | <= 6 | 0,3 GRUEN | 12,0 | 1,4 |
+| K9 Bild 2 Klauen a* r/l | >= 18,1 / 16,7 | 25,7 / 28,8 GRUEN | 13,8/22,8 | 26,1/28,3 |
+| K10 Bild 2 Augen L* max | <= 30 | 14,0 / 15,4 GRUEN | 51,5/36,2 | 14,3/15,9 |
+| N1 neutral C* | >= 7,5 / 9,4 / 7,9 | 10,3 / 9,7 / 10,1 GRUEN | 4,6/5,0/4,0 | 10,2/8,8/6,9 |
+| N2 neutral L* > 85 | <= 0,10 % | 0/0/0 GRUEN | 0,83/1,30/0,11 | 0/0/0 |
+| B1 Rot erosionsfest | >= 32,1 % | 35,9 GRUEN | 21,5 | 28,0 |
+| **B2 groesste Rotflaeche 3/4 vorn / Seite** | >= 3,2 % | **2,97** / 5,96 **ROT** | 1,19/0,61 | 3,65/2,45 |
+| B3 Blau-Klasse | <= 0,10 % | 0,03/0,02/0,00 GRUEN | 3,9/5,0/2,4 | 0 |
+| B4 Glanzrest p90 | <= 58 | 44,3 GRUEN | 100 | 47,8 |
+| B5 Kopffeld Zahnklasse | <= 2,0 % | 0,0 GRUEN | 15,1 | 1,0 |
+| B6 Kachelwiederholung (neu) | <= 0,28 % | 0,04 GRUEN | 0,24 | 2,82 |
+| B7 Rot-Farbton-Streuung (neu) | >= 5,8 Grad | 11,3 GRUEN | 19,9 | 4,5 |
+| B8 Bild-2-Zahnflecken Hell-Klasse (neu) | 13,6-33,9 % (0,6-1,5 x 22,6) | 14,1 GRUEN | 41,1 | 0,2 |
+| **B9 Rot im Umrissband (neu)** | <= 11,3 % | **17,8 ROT** | 10,2 | 23,3 |
 
-B1-B5 sind neu (Befunde r1). Grenzen aus der Familie mit demselben Code (`riegel_farbe.py --familie`); B1/B2 relativ zur Figur statt der 34 % / 1000 px
-des Sicht-Pruefers, weil K5c in derselben Umkugel nur etwa halb so viele Pixel deckt wie G4 (Fairness-Befund des Sicht-Pruefers) und EM30 (gelobter
-Stand derselben Kreatur) die Familienuntergrenze stellt.
+**Warum K1/K2 rot bleiben (gemessen):** Die Bild-1-Farbkraft des Originals (C* 9,25) ist zu grossen Teilen Blau. Mit der Blau-Grenze dieser Runde
+(b* < -6 nur bis C* 8, statt Runde 2 b* auf -6) traegt das Original selbst je Bildpunkt nur C* 7,53; selbst eine bildpunktgenaue Quantisierung des
+Originals auf die zwei Hautseiten erreicht nur C* 8,28 / ab-Streuung 7,59 (Messung im Lauf, Original T Bild 1, k-Mittel k = 2-8 ueber die Hautpixel beider Bilder). Nach Projektion, Glaettung und Kette bleiben
+6,1 / 6,2. Mit 3-8 Toenen statt 2 steigt die Quantisierungsgrenze nicht (7,67-8,10). Runde 2 erreichte K2 8,0 nur mit G4-Foto-Korn (P2) - das ist
+der Zielkonflikt K1/K2 gegen B3 (Sicht r1 P2 "blaue Beine") und P2 (Foto-Fragmente). Gegen die gelockerte Grenze aus O1 (Runde 2: 0,85 x 7,99 = 6,79)
+ist K1 ebenfalls ROT.
+**K4/B2 knapp:** Z1 (Rueckenfleck) erscheint in der Bild-1-Kette zu dunkel (Rotklasse 2,8 % gegen >= 3,1); 3/4 vorn verdeckt der nahe Arm den Bauch
+(2,97 gegen 3,2). **B9:** im Umrissband liegen Schwanzspitze (Bild 1: rosa-weisses Ende), Krallen (G4) und die Bauchkante; EM30 11,3 %.
 
-**Warum K1/K2/N1 rot bleiben (gemessen, kein Platzhalter):** Die Bild-1-Farbkraft des Originals (C\* 9,25) besteht zu 29,9 % aus Bildpunkten der
-Blau-Klasse. Ohne Blau (B3, Sicht-Pruefer P2 "Abweichung, die der Nutzer wieder ablehnen wuerde") traegt das Original selbst nur noch C\* 7,99
-(gekappt) bzw. 7,40 (skaliert), also an der K1-Grenze 7,9. Runde 1 erreichte K1 8,6 mit blauen Beinen und rotem Adernetz. Die fehlende Farbkraft
-aus warmen Toenen zu holen, kollidiert mit K4 (Laeufe e5/e6: K1 8,7 bei K4 9,9-10,2 % > 7,8). N1 (neutraler Render, Seite und 3/4 hinten) ist dieselbe
-Lage: die Rueckansicht entspricht Bild 1. **K1/K3-Ziel enthaelt das Video-Blau, B3 verbietet es** - das ist eine Entscheidung (Abschnitt 7, O1).
-B1/B2: Rot liegt jetzt als Flaechen (Schulter/Ruecken Z1, Kiefer, Krallen, Schwanzspitze; 3/4 vorn 3,65 % gruen), in der Seitenansicht ist die
-groesste Flaeche 2,45 %; mehr sichtbares Fleisch auf Ruecken/Flanke verbietet Bild 1 (K4, E14).
-
-## 5. Tafeln (`farbe/`, `generator/kf_tafeln.py`, Messblatt 7: roh, kein Gamma auf keiner Kachel)
+## 5. Tafeln (`farbe/`, `generator/kf_tafeln.py`, KF_NAME 'K5c neu (Farbe Runde 3)'; Messblatt 7: roh, kein Gamma auf keiner Kachel)
 
 | Tafel | Inhalt |
 |---|---|
-| `01_szene_bild1.png` | Bild 1 Original - K4 heute - K5c neu (Runde 2); Zeile 1 Disc-Licht ROOM5080 Cut 2 x Kanalfaktor k (1,06/0,95/0,82, `pruefung/licht.json`, beide Modelle gleich; Befund r1 "k verschwiegen"), Zeile 2 durch form_video |
+| `01_szene_bild1.png` | Bild 1 Original - K4 heute - K5c neu; Zeile 1 Disc-Licht ROOM5080 Cut 2 x k (1,06/0,95/0,82), beide gleich; Zeile 2 durch form_video. Kopfzeile: Zeile 1 heller als das Spielfenster 07 (Sicht r2 3) |
 | `02_szene_bild2.png` | dasselbe fuer ROOM5090 Cut 11 (k 1,20/1,12/1,00) |
-| `03_familie.png` | EM30_HANGAR - RE2-G5 - RE2-G4 - K5c neu - K4 heute, gleicher Renderer, Licht 0,55 + 0,45 N.L, Umkugel 0,46, 3 Winkel; L\*/C\*/L\*>85 und Figurpixel je Kachel |
+| `03_familie.png` | EM30_HANGAR - RE2-G5 - RE2-G4 - K5c neu - K4 heute, gleicher Renderer, Licht 0,55 + 0,45 N.L, Umkugel 0,46, 3 Winkel, L*/C*/L*>85/px je Kachel |
 | `04_atlas.png` | EM30 - K5c neu - K5c heute, 2 Bildpunkte je Texel, je 8 Palettenfelder mit Lab und Anteil |
 | `05_rundum_neu.png` | K5c neu Pose Bild 1 (Clip 0) und Ruhe (Clip 2), 6 Winkel, Licht wie 03, EM30 als Vergleichskachel |
 | `06_kopf_nah.png` | Bild-2-Ausschnitt x 200-360, y 290-420 3-fach (Original, T, neu Kette, heute Kette); Kopf+Kiefer neu / heute / RE2-G4-Kopf |
-| `07_spiel.png` | echtes Spiel (eigene exe-Kopie, `generator/kf_spiel.sh --mit-heute` -> `re15_port/tools/form_spiel.sh`, gdigrab, kein AUTOSHOT/SOFTWARE_RENDER): je Zeile Original-Standbild - K4 heute im Spiel - K5c neu im Spiel; 5 Szenen (5080 Nachstellung, Lage Bild 1, Ruhe; 5090 Pose Bild 2, Ruhe). Einzelbilder `farbe/spiel/`, Logs `spiel.log` (neu, 5/5 rc=0) und `spiel_heute.log` (K4, 5/5 rc=0). Zusammengesetzt von `kf_tafeln.py ... 07` (versioniert, Befund r1). Runde-1-Spielbilder in `farbe/spiel_r1/` |
+| `07_spiel.png` | echtes Spiel (eigene exe-Kopie, `generator/kf_spiel.sh --mit-heute` -> `re15_port/tools/form_spiel.sh`, gdigrab, kein AUTOSHOT/SOFTWARE_RENDER): Original - K4 heute - K5c neu, 5 Szenen (5080 Nachstellung, Lage Bild 1, Ruhe; 5090 Pose Bild 2, Ruhe). Einzelbilder `farbe/spiel/`, Lauf-Log `farbe/spiel_lauf.log` (10/10 rc=0, alle gdigrab Versuch 1). Runde-2-Bilder in `farbe/spiel_r2/` |
+
+Gesehen (eigene Durchsicht, keine Pruefung): im neutralen Licht ein dunkles Tier mit blaugrauen Beinen, rotbraunem Ruecken/Kopf und einer
+zusammenhaengenden roten Bauch-/Flankenflaeche (03, Seite) - naeher an G4 als Runde 2; im Spiel 5080 bleibt die Figur fast schwarz (Hangar-Licht),
+rot sind dort Flanke und Schwanzspitze; in 5090 Cut 11 rotbraun im Feuerschein.
 
 ## 6. Tests
 
-Bau `bash re15_port/tools/local_build.sh build`: LOCAL-BUILD-OK. `ctest -R "form|bahnsteig|birkin_form|r41_form" -j 3 --timeout 600`: **11/11 gruen**,
-nichts wiederholt, 95 s (unit_birkin_bahnsteig, unit_birkin_formen, unit_r41_form_emd, integration_r41_form_wagenweg, integration_r35_werfer_form,
-integration_r34_plattform_takt, integration_r34_plattform_esp_eintritt, unit_r34_plattform, unit_r34_plattform_ton, unit_r35_fenster_satzform,
-unit_r39_funk10f1_form).
-Das Spiel-Asset ist unveraendert; die Tests pruefen den Bestand, der Kandidat laeuft nur in 07.
+`bash re15_port/tools/local_build.sh build`: LOCAL-BUILD-OK. `ctest -R "form|bahnsteig|birkin_form|r41_form" -j 3 --timeout 600`: **11/11 gruen**,
+nichts wiederholt, 95,8 s. Die Tests pruefen den unveraenderten Bestand (Spiel-Asset), der Kandidat laeuft nur in 07.
 
 ## 7. Offen
 
 | # | Punkt | Stand |
 |---|---|---|
-| O1 | **Blau gegen Bild-1-Farbkraft**: K1/K2/N1 verlangen die Bild-1-Farbkraft, die zu 30 % Video-Blau ist; B3/P2 verbieten blaue Haut. Entweder Blau-Stich an den Beinen zulassen (K1/N1 erreichbar, P2 kehrt zurueck) oder K1/N1 auf das Original ohne Blau-Klasse beziehen (C\* 7,99 -> Grenze 6,8) | Entscheidung Orchestrator/Nutzer |
-| O2 | Helligkeit: neutral L\* 14,6-16,3 (G4 17,0-21,6, EM30 24,5-29,0). Bild 1 verlangt das Dunkle (K3) | unveraendert seit Runde 1 |
-| O3 | Z1 (Rueckenfleck) ist jetzt warmes Familienrot (25 Grad); im Video wirkt er rosa-violett (Original T (54/17/-3), -10 Grad). Messblatt 1 nennt das K5c-Magenta einen Fehler, E14 verlangt die Screenshot-Farbe | Nutzer-Urteil an Tafel 01 |
-| O4 | Verdeckte Unterseite (23,9 %) ist eine Familien-Annahme (G4), kein Screenshot-Beleg (74 % der Texel unsichtbar); dunkelrot, damit sie an Umrisskanten nicht leuchtet | Nutzer-Urteil an 03/05 |
-| O5 | Kachelnaehte der G4-Hautquellen in grossen Feldern (O3 r1) bleiben schwach sichtbar; Versaetze jetzt gleichverteilt | klein |
-| O6 | K-Riegel sind weiter Eichziele (Zonenversatz); unabhaengig sind A, N und B. Gegenprobe mit anderem Rausch-Saatwert nicht wiederholt | zweiter Pruefer |
-| O7 | "von der Struktur" (Messblatt 8): nur Texturstruktur bearbeitet, Kopfform K5c unveraendert | Nutzer |
+| O1 | **K1/K2 (Bild-1-Farbkraft) gegen Blau-Grenze B3 und P2**: mit der Blau-Grenze ist die Farbkraft des Originals selbst nur 7,5 (bildpunktgenau 8,3 bei zwei Toenen); erreichbar waere K1 nur mit blauer Beinhaut (Runde 1) oder Foto-Korn (Runde 2). Entscheid: K1/K2 auf das Original mit Blau-Grenze beziehen, oder Blau zulassen | Orchestrator/Nutzer |
+| O2 | K4 2,8 % (Grenze 3,1) und B2 3/4 vorn 2,97 % (3,2): Z1 in der Bild-1-Kette zu dunkel, Bauch 3/4 vorn vom Arm verdeckt | knapp, naechster Bau |
+| O3 | B9 17,8 % (EM30 11,3): Schwanzspitze, G4-Krallen und Bauchkante liegen im Umrissband. Neuer Riegel dieser Runde, eigene Grenze aus der Familie | naechster Bau / Pruefer |
+| O4 | Blaugraue Beine (kuehle Hautseite, C* <= 8): Riegel B3 gruen, aber im neutralen Licht sichtbar blaugrau; Sicht r1 P2 hatte "stahlblaue Beine" als Ablehnungsgrund (dort C* > 8) | Sicht-Pruefer / Nutzer |
+| O5 | 32143 Texel werden durch die Blau-Grenze gekappt; Hinterbein-b*-Versatz wirkt nicht (gesperrt, -51,4) | Folge von O1 |
+| O6 | Kiefer/Krallen weiter aus `kf_mal.ausschnitt` (sigma 2, 4 Durchlaeufe) und Kopienzahl `+1` (Zahlen-Pruefer r2 5.1/5.3) | nicht behoben |
+| O7 | Kopffeld: zwei helle senkrechte Baender (projizierte Bild-2-Hellstellen, L* <= 58) und kleine Rotsprenkel aus der Bild-2-Projektion | Sicht-Pruefer |
+| O8 | Eichung lief ueber 4 Codestaende (15 Runden); Endstand ist Fixpunkt des Endcodes (2 Runden, Schritt 0,71), Start nicht neu von null | zweiter Pruefer |
+| O9 | Herkunftstext 'hautseiten' in bau.json sagt "k-Mittel Bild 1", gerechnet wird ueber Bild 1 und 2 (Code `hautseiten()`) | Textfehler |
